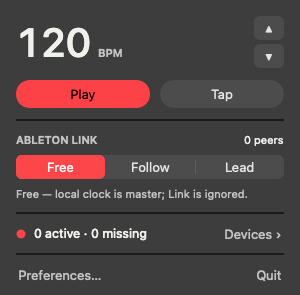
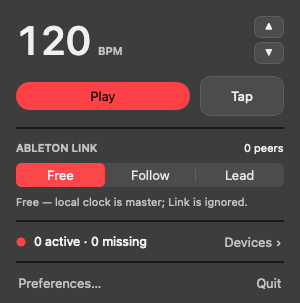
polish: surface-styled popover controls (nudge + Tap) to match mockup
Flat layer-backed buttons on the popover surface color with hairline borders,
replacing default bezels — closer to the design mockup alongside the coral
transport button + Link segment.

diff --git a/Sources/SynclockApp/PopoverViewController.swift b/Sources/SynclockApp/PopoverViewController.swift
@@ -106,9 +106,9 @@ final class PopoverViewController: NSViewController {
         playButton.bezelColor = Theme.accent
         playButton.contentTintColor = .white
 
-        let tapButton = NSButton(title: "Tap", target: self, action: #selector(tapTempo))
-        tapButton.bezelStyle = .rounded
-        tapButton.controlSize = .large
+        let tapButton = surfaceStyled(NSButton(title: "Tap", target: self, action: #selector(tapTempo)),
+                                      radius: 11)
+        tapButton.heightAnchor.constraint(equalToConstant: 40).isActive = true
         tapButton.setAccessibilityLabel("Tap tempo")
 
         let row = NSStackView(views: [playButton, tapButton])
@@ -179,12 +179,25 @@ final class PopoverViewController: NSViewController {
     // MARK: - Helpers
 
     private func nudgeButton(_ title: String, _ action: Selector) -> NSButton {
-        let b = NSButton(title: title, target: self, action: action)
-        b.bezelStyle = .rounded
+        let b = surfaceStyled(NSButton(title: title, target: self, action: action), radius: 7)
         b.font = .systemFont(ofSize: 10)
         b.widthAnchor.constraint(equalToConstant: 30).isActive = true
+        b.heightAnchor.constraint(equalToConstant: 22).isActive = true
         // Arrow glyphs read poorly under VoiceOver; give them real labels.
         b.setAccessibilityLabel(title == "▲" ? "Increase tempo" : "Decrease tempo")
+        return b
+    }
+
+    /// A flat, layer-backed button on the popover's surface color with a hairline
+    /// border (matches the mockup's dark rounded controls, vs. default bezels).
+    private func surfaceStyled(_ b: NSButton, radius: CGFloat) -> NSButton {
+        b.isBordered = false
+        b.wantsLayer = true
+        b.layer?.backgroundColor = Theme.surface.cgColor
+        b.layer?.cornerRadius = radius
+        b.layer?.borderWidth = 1
+        b.layer?.borderColor = Theme.hairline.cgColor
+        b.contentTintColor = Theme.inkSecondary
         return b
     }
 